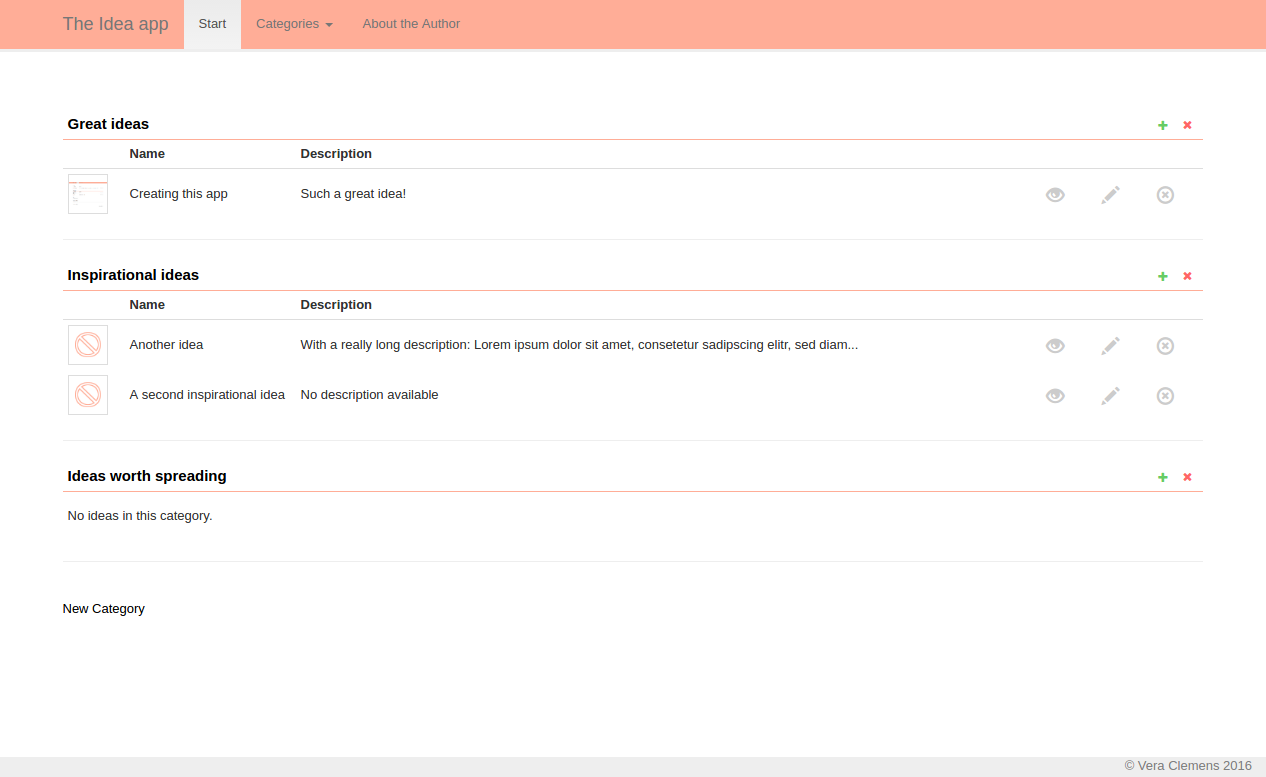
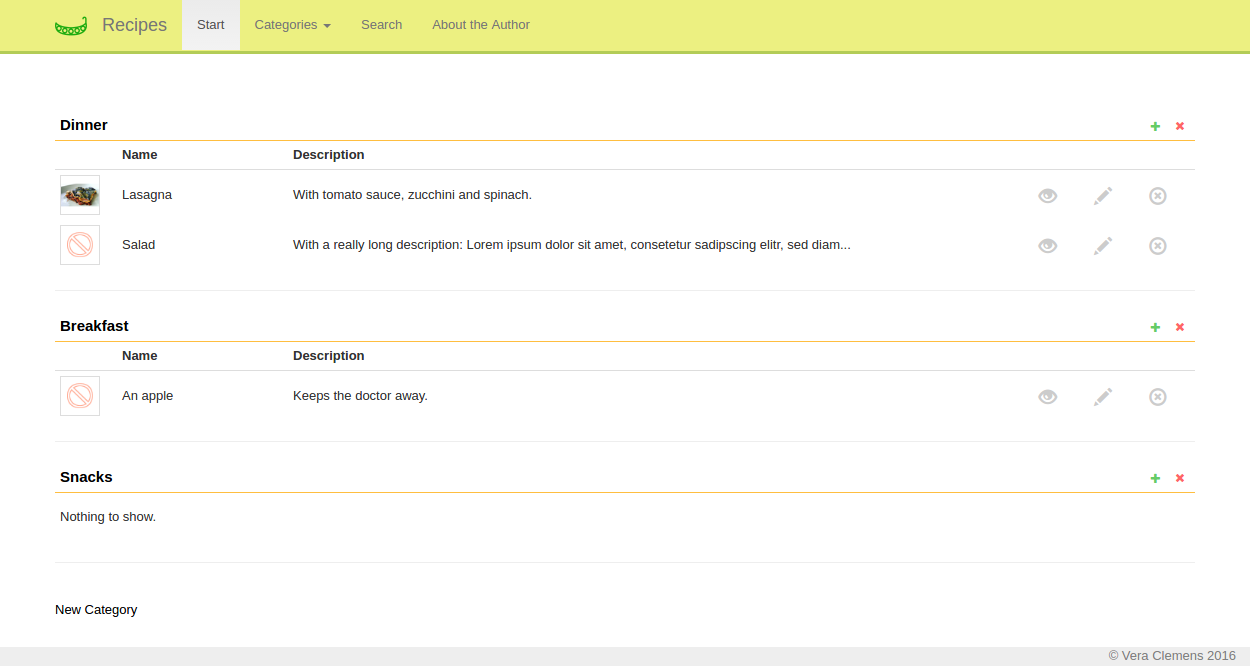
Redesign and renaming
- Rename "idea" model to "recipe"
- CSS changes
- Add icon and sample picture, update screenshot
- Update seed data

diff --git a/app/assets/stylesheets/application.scss b/app/assets/stylesheets/application.scss
@@ -22,14 +22,8 @@ a:hover {background: none; color: black; }
 .button { width: 20px; }
 
 .navbar, .navbar-fixed-top, .navbar-default {
-  background: #ffad97;
-  border-bottom: 3px solid #eee;
-}
-
-.navbar li {
-  text-transform: uppercase;
-  font-family: 'Open Sans Condensed', sans-serif;
-  color: #000;
+  background: #ECF081;
+  border-bottom: 3px solid #B3CC57;
 }
 
 input, textarea, select {

diff --git a/app/assets/stylesheets/recipes.scss b/app/assets/stylesheets/recipes.scss
@@ -26,6 +26,6 @@ th,td {
 .button { width: 20px; }
 
 .cat {
-  border-bottom: 1px solid #ffad97;
+  border-bottom: 1px solid #FFBE40;
   font-size: 15px;
 }

diff --git a/app/controllers/recipes_controller.rb b/app/controllers/recipes_controller.rb
@@ -1,11 +1,11 @@
-class IdeasController < ApplicationController
-  before_action :set_idea, only: [:show, :edit, :update, :destroy]
+class RecipesController < ApplicationController
+  before_action :set_recipe, only: [:show, :edit, :update, :destroy]
 
   # GET /ideas
   # GET /ideas.json
   def index
     @category = Category.find(params[:category_id])
-    @ideas = Idea.where("category_id = ?", params[:category_id])
+    @recipes = Recipe.where("category_id = ?", params[:category_id])
   end
 
   # GET /ideas/1
@@ -16,7 +16,7 @@ class IdeasController < ApplicationController
   # GET /ideas/new
   def new
     @category = Category.find(params[:category_id])
-    @idea = @category.idea.build
+    @recipe = @category.idea.build
   end
 
   # GET /ideas/1/edit
@@ -26,15 +26,15 @@ class IdeasController < ApplicationController
   # POST /ideas
   # POST /ideas.json
   def create
-    @idea = Idea.new(idea_params)
+    @recipe = Recipe.new(idea_params)
 
     respond_to do |format|
-      if @idea.save
-        format.html { redirect_to @idea, notice: 'Idea was successfully created.' }
+      if @recipe.save
+        format.html { redirect_to @recipe, notice: 'Recipe was successfully created.' }
         format.json { render :show, status: :created, location: @idea }
       else
         format.html { render :new }
-        format.json { render json: @idea.errors, status: :unprocessable_entity }
+        format.json { render json: @recipe.errors, status: :unprocessable_entity }
       end
     end
   end
@@ -43,12 +43,12 @@ class IdeasController < ApplicationController
   # PATCH/PUT /ideas/1.json
   def update
     respond_to do |format|
-      if @idea.update(idea_params)
-        format.html { redirect_to @idea, notice: 'Idea was successfully updated.' }
-        format.json { render :show, status: :ok, location: @idea }
+      if @recipe.update(idea_params)
+        format.html { redirect_to @recipe, notice: 'Recipe was successfully updated.' }
+        format.json { render :show, status: :ok, location: @recipe }
       else
         format.html { render :edit }
-        format.json { render json: @idea.errors, status: :unprocessable_entity }
+        format.json { render json: @recipe.errors, status: :unprocessable_entity }
       end
     end
   end
@@ -56,21 +56,21 @@ class IdeasController < ApplicationController
   # DELETE /ideas/1
   # DELETE /ideas/1.json
   def destroy
-    @idea.destroy
+    @recipe.destroy
     respond_to do |format|
-      format.html { redirect_to root_path, notice: 'Idea was successfully destroyed.' }
+      format.html { redirect_to root_path, notice: 'Recipe was successfully destroyed.' }
       format.json { head :no_content }
     end
   end
 
   private
     # Use callbacks to share common setup or constraints between actions.
-    def set_idea
-      @idea = Idea.find(params[:id])
+    def set_recipe
+      @recipe = Recipe.find(params[:id])
     end
 
     # Never trust parameters from the scary internet, only allow the white list through.
-    def idea_params
-      params.require(:idea).permit(:name, :description, :picture, :category_id)
+    def recipe_params
+      params.require(:recipe).permit(:name, :description, :picture, :category_id)
     end
 end

diff --git a/db/seeds.rb b/db/seeds.rb
@@ -8,23 +8,24 @@
 
 
 Category.create!([{
-  name: "Great ideas"
+  name: "Breakfast"
 },{
-  name: "Inspirational ideas"
+  name: "Dinner"
 },{
-  name: "Ideas worth spreading"
+  name: "Snacks"
 }])
 
-Idea.create!([{
-  name: "Creating this app",
-  description: "Such a great idea!",
-  category_id: 1,
-  picture: open(Rails.root + "app/assets/images/screenshot_index.png")
+Recipe.create!([{
+  name: "Lasagna",
+  description: "With tomato sauce, zucchini and spinach.",
+  category_id: 2,
+  picture: open(Rails.root + "app/assets/images/sample_picture_lasagna.png")
+  },{
+  name: "An apple",
+  description: "Keeps the doctor away.",
+  category_id: 1
 },{
-  name: "Another idea",
+  name: "Salad",
   description: "With a really long description: Lorem ipsum dolor sit amet, consetetur sadipscing elitr, sed diam nonumy eirmod tempor invidunt ut labore et dolore magna aliquyam erat, sed diam voluptua. At vero eos et accusam et justo duo dolores et ea rebum. Stet clita kasd gubergren, no sea takimata sanctus est Lorem ipsum dolor sit amet. Lorem ipsum dolor sit amet, consetetur sadipscing elitr, sed diam nonumy eirmod tempor invidunt ut labore et dolore magna aliquyam erat, sed diam voluptua. At vero eos et accusam et justo duo dolores et ea rebum. Stet clita kasd gubergren, no sea takimata sanctus est Lorem ipsum dolor sit amet. Lorem ipsum dolor sit amet, consetetur sadipscing elitr, sed diam nonumy eirmod tempor invidunt ut labore et dolore magna aliquyam erat, sed diam voluptua. At vero eos et accusam et justo duo dolores et ea rebum. Stet clita kasd gubergren, no sea takimata sanctus est Lorem ipsum dolor sit amet. Duis autem vel eum iriure dolor in hendrerit in vulputate velit esse molestie consequat, vel illum dolore eu feugiat nulla facilisis at vero eros et accumsan et iusto odio dignissim qui blandit praesent luptatum zzril delenit augue duis dolore te feugait nulla facilisi. Lorem ipsum dolor sit amet.",
   category_id: 2
-},{
-  name: "A second inspirational idea",
-  category_id: 2
-  }])
+}])

diff --git a/db/schema.rb b/db/schema.rb
@@ -11,7 +11,7 @@
 #
 # It's strongly recommended that you check this file into your version control system.
 
-ActiveRecord::Schema.define(version: 20160712170525) do
+ActiveRecord::Schema.define(version: 20160730113410) do
 
   create_table "categories", force: :cascade do |t|
     t.string   "name"
@@ -21,7 +21,7 @@ ActiveRecord::Schema.define(version: 20160712170525) do
 
   add_index "categories", ["name"], name: "index_categories_on_name", unique: true
 
-  create_table "ideas", force: :cascade do |t|
+  create_table "recipes", force: :cascade do |t|
     t.string   "name"
     t.text     "description"
     t.string   "picture"
@@ -30,6 +30,6 @@ ActiveRecord::Schema.define(version: 20160712170525) do
     t.integer  "category_id"
   end
 
-  add_index "ideas", ["name"], name: "index_ideas_on_name", unique: true
+  add_index "recipes", ["name"], name: "index_recipes_on_name", unique: true
 
 end

diff --git a/app/controllers/categories_controller.rb b/app/controllers/categories_controller.rb
@@ -5,8 +5,8 @@ class CategoriesController < ApplicationController
   # GET /categories.json
   def index
     @categories = Category.all
-    @empty_categories = Category.where('id NOT IN (?)', Idea.select("category_id"))
-    @ideas = Idea.all
+    @empty_categories = Category.where('id NOT IN (?)', Recipe.select("category_id"))
+    @recipes = Recipe.all
   end
 
   # GET /categories/1

diff --git a/app/models/recipe.rb b/app/models/recipe.rb
@@ -1,9 +1,9 @@
-class Idea < ActiveRecord::Base
+class Recipe < ActiveRecord::Base
   validates :name, presence: true
   validates :name, uniqueness: true
   validates :category_id, presence: true
 
   mount_uploader :picture, PictureUploader
-  
+
   belongs_to :category
 end

diff --git a/config/routes.rb b/config/routes.rb
@@ -4,7 +4,7 @@ Rails.application.routes.draw do
   #resources :ideas
 
   resources :categories do
-    resources :ideas, shallow: true
+    resources :recipes, shallow: true
   end
 
   root :to => 'categories#index'

diff --git a/app/models/category.rb b/app/models/category.rb
@@ -1,6 +1,6 @@
 class Category < ActiveRecord::Base
   validates :name, presence: true
   validates :name, uniqueness: true
-  
-  has_many :idea
+
+  has_many :recipes
 end

diff --git a/db/migrate/20160730113410_rename_ideas_to_recipes.rb b/db/migrate/20160730113410_rename_ideas_to_recipes.rb
@@ -1,0 +1,5 @@
+class RenameIdeasToRecipes < ActiveRecord::Migration
+  def change
+    rename_table :ideas, :recipes
+  end
+end

diff --git a/app/helpers/recipes_helper.rb b/app/helpers/recipes_helper.rb
@@ -1,0 +1,2 @@
+module RecipesHelper
+end
